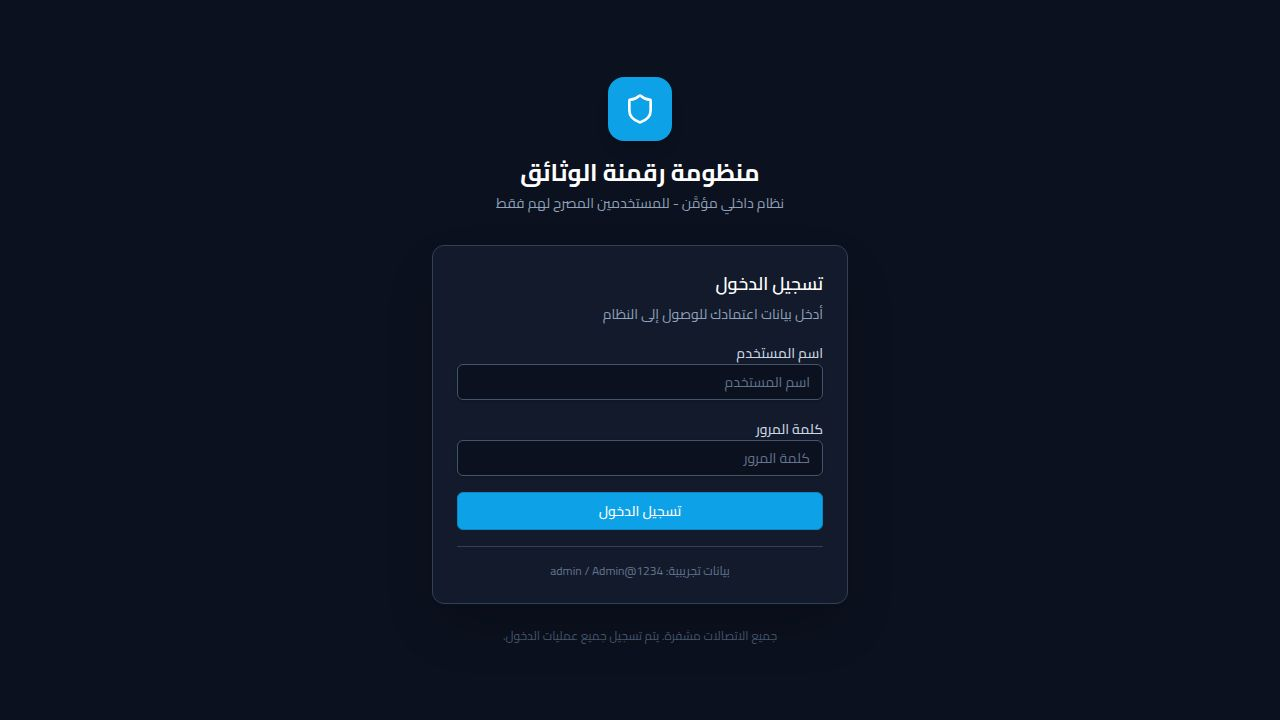
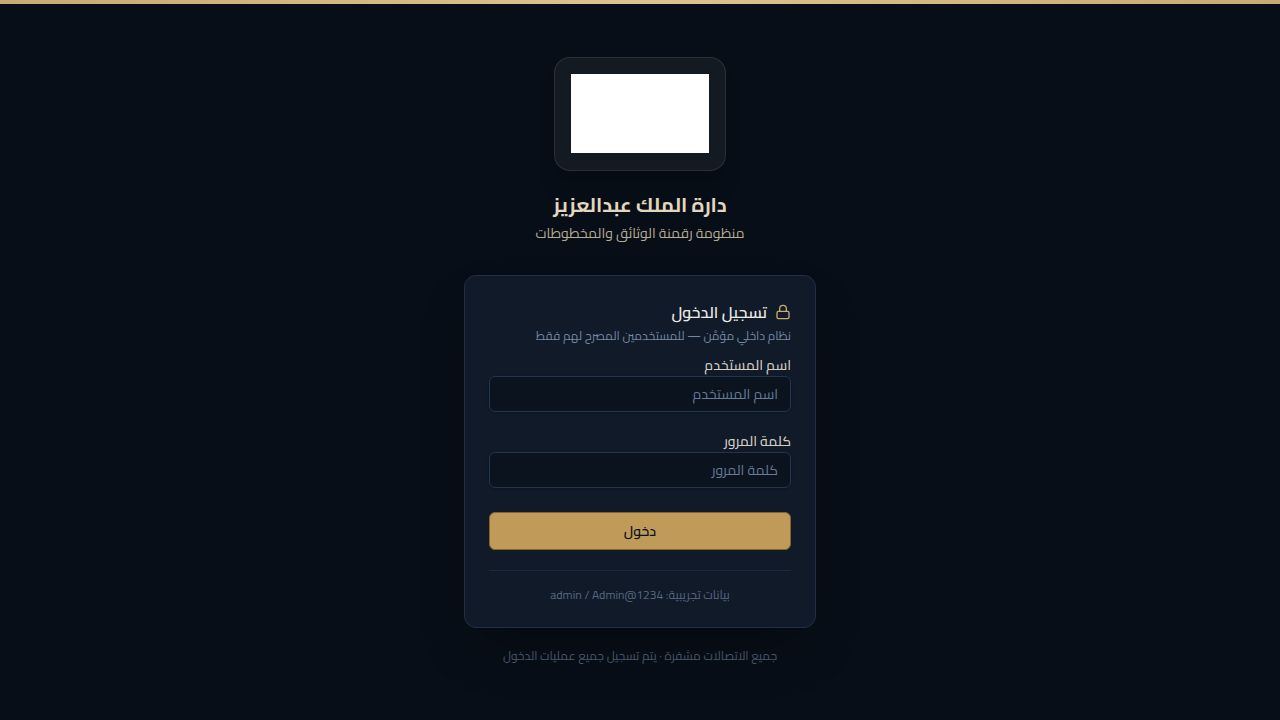
Update the application's visual theme to incorporate official branding
Refactor CSS variables and components to implement the Darah branding, including logo integration and color scheme adjustments in layout and login pages.

Replit-Commit-Author: Agent
Replit-Commit-Session-Id: 23f6d0bf-7aaa-4dc3-808f-a629d038bb14
Replit-Commit-Checkpoint-Type: full_checkpoint
Replit-Commit-Event-Id: 20e2a9bf-671e-48ea-ac76-dc4639d720ec
Replit-Commit-Screenshot-Url: https://storage.googleapis.com/screenshot-production-us-central1/404a4a0f-0123-430c-a00e-5af818b9d94b/23f6d0bf-7aaa-4dc3-808f-a629d038bb14/4SL5FPN
Replit-Helium-Checkpoint-Created: true

diff --git a/artifacts/ocr-dashboard/src/pages/login.tsx b/artifacts/ocr-dashboard/src/pages/login.tsx
@@ -3,8 +3,8 @@ import { useAuth } from "@/lib/auth-context";
 import { Button } from "@/components/ui/button";
 import { Input } from "@/components/ui/input";
 import { Label } from "@/components/ui/label";
-import { Card, CardContent, CardHeader, CardTitle, CardDescription } from "@/components/ui/card";
-import { AlertCircle, Shield } from "lucide-react";
+import { Card, CardContent, CardHeader } from "@/components/ui/card";
+import { AlertCircle, Lock } from "lucide-react";
 
 export default function LoginPage() {
   const { login } = useAuth();
@@ -28,47 +28,90 @@ export default function LoginPage() {
   };
 
   return (
-    <div className="min-h-screen flex items-center justify-center bg-[hsl(222,47%,8%)]" dir="rtl">
-      <div className="w-full max-w-md px-4">
-        {/* Logo / Brand */}
+    <div
+      className="min-h-screen flex items-center justify-center"
+      style={{ background: "hsl(216,50%,6%)" }}
+      dir="rtl"
+    >
+      {/* Subtle gold top border */}
+      <div className="fixed top-0 inset-x-0 h-1" style={{ background: "linear-gradient(90deg, hsl(38,45%,62%), hsl(38,55%,72%), hsl(38,45%,62%))" }} />
+
+      <div className="w-full max-w-sm px-4">
+
+        {/* Darah Logo + Title */}
         <div className="text-center mb-8">
-          <div className="inline-flex items-center justify-center w-16 h-16 rounded-2xl bg-[hsl(199,89%,48%)] mb-4 shadow-lg">
-            <Shield className="w-8 h-8 text-white" />
+          <div className="inline-flex items-center justify-center rounded-2xl bg-white p-4 mb-5 shadow-2xl" style={{ boxShadow: "0 0 0 1px hsl(38,30%,50%,0.4), 0 20px 40px rgba(0,0,0,0.5)" }}>
+            <img
+              src="/darah-logo.png"
+              alt="دارة الملك عبدالعزيز"
+              className="h-20 w-auto object-contain"
+            />
           </div>
-          <h1 className="text-2xl font-bold text-white tracking-tight">منظومة رقمنة الوثائق</h1>
-          <p className="text-sm text-slate-400 mt-1">نظام داخلي مؤمَّن - للمستخدمين المصرح لهم فقط</p>
+          <h1 className="text-xl font-bold tracking-tight" style={{ color: "hsl(38,40%,82%)" }}>
+            دارة الملك عبدالعزيز
+          </h1>
+          <p className="text-sm mt-1" style={{ color: "hsl(38,20%,65%)" }}>
+            منظومة رقمنة الوثائق والمخطوطات
+          </p>
         </div>
 
-        <Card className="border-slate-700 bg-[hsl(222,40%,12%)] shadow-2xl">
-          <CardHeader className="pb-4">
-            <CardTitle className="text-white text-lg">تسجيل الدخول</CardTitle>
-            <CardDescription className="text-slate-400">أدخل بيانات اعتمادك للوصول إلى النظام</CardDescription>
+        {/* Login Card */}
+        <Card
+          className="shadow-2xl border-0"
+          style={{ background: "hsl(216,42%,11%)", border: "1px solid hsl(216,38%,20%)" }}
+        >
+          <CardHeader className="pb-2 pt-6 px-6">
+            <div className="flex items-center gap-2 mb-1">
+              <Lock className="w-4 h-4" style={{ color: "hsl(38,45%,62%)" }} />
+              <span className="font-semibold" style={{ color: "hsl(38,15%,92%)" }}>
+                تسجيل الدخول
+              </span>
+            </div>
+            <p className="text-xs" style={{ color: "hsl(216,20%,55%)" }}>
+              نظام داخلي مؤمَّن — للمستخدمين المصرح لهم فقط
+            </p>
           </CardHeader>
-          <CardContent>
+
+          <CardContent className="px-6 pb-6">
             <form onSubmit={handleSubmit} className="space-y-4">
-              <div className="space-y-2">
-                <Label htmlFor="username" className="text-slate-300">اسم المستخدم</Label>
+              <div className="space-y-1.5">
+                <Label htmlFor="username" style={{ color: "hsl(38,15%,80%)" }}>
+                  اسم المستخدم
+                </Label>
                 <Input
                   id="username"
                   data-testid="input-username"
                   type="text"
                   value={username}
                   onChange={(e) => setUsername(e.target.value)}
-                  className="bg-[hsl(222,47%,8%)] border-slate-600 text-white placeholder:text-slate-500 text-right"
+                  className="text-right focus-visible:ring-1"
+                  style={{
+                    background: "hsl(216,45%,8%)",
+                    borderColor: "hsl(216,38%,22%)",
+                    color: "hsl(38,15%,92%)",
+                  }}
                   placeholder="اسم المستخدم"
                   required
                   dir="rtl"
                 />
               </div>
-              <div className="space-y-2">
-                <Label htmlFor="password" className="text-slate-300">كلمة المرور</Label>
+
+              <div className="space-y-1.5">
+                <Label htmlFor="password" style={{ color: "hsl(38,15%,80%)" }}>
+                  كلمة المرور
+                </Label>
                 <Input
                   id="password"
                   data-testid="input-password"
                   type="password"
                   value={password}
                   onChange={(e) => setPassword(e.target.value)}
-                  className="bg-[hsl(222,47%,8%)] border-slate-600 text-white placeholder:text-slate-500 text-right"
+                  className="text-right focus-visible:ring-1"
+                  style={{
+                    background: "hsl(216,45%,8%)",
+                    borderColor: "hsl(216,38%,22%)",
+                    color: "hsl(38,15%,92%)",
+                  }}
                   placeholder="كلمة المرور"
                   required
                   dir="rtl"
@@ -76,7 +119,8 @@ export default function LoginPage() {
               </div>
 
               {error && (
-                <div className="flex items-center gap-2 text-red-400 text-sm bg-red-950/30 border border-red-800/50 rounded-md px-3 py-2">
+                <div className="flex items-center gap-2 text-sm rounded-md px-3 py-2.5"
+                  style={{ background: "hsl(0,62%,20%)", border: "1px solid hsl(0,62%,35%)", color: "hsl(0,80%,80%)" }}>
                   <AlertCircle className="w-4 h-4 shrink-0" />
                   <span>{error}</span>
                 </div>
@@ -85,21 +129,27 @@ export default function LoginPage() {
               <Button
                 type="submit"
                 data-testid="button-login"
-                className="w-full bg-[hsl(199,89%,48%)] hover:bg-[hsl(199,89%,42%)] text-white font-medium"
+                className="w-full font-semibold mt-2 transition-all"
+                style={{
+                  background: "hsl(38,45%,55%)",
+                  color: "hsl(216,50%,8%)",
+                }}
                 disabled={loading}
               >
-                {loading ? "جاري التحقق..." : "تسجيل الدخول"}
+                {loading ? "جاري التحقق..." : "دخول"}
               </Button>
             </form>
 
-            <div className="mt-4 pt-4 border-t border-slate-700">
-              <p className="text-xs text-slate-500 text-center">بيانات تجريبية: admin / Admin@1234</p>
+            <div className="mt-5 pt-4" style={{ borderTop: "1px solid hsl(216,38%,18%)" }}>
+              <p className="text-xs text-center" style={{ color: "hsl(216,20%,42%)" }}>
+                بيانات تجريبية: admin / Admin@1234
+              </p>
             </div>
           </CardContent>
         </Card>
 
-        <p className="text-center text-xs text-slate-600 mt-6">
-          جميع الاتصالات مشفرة. يتم تسجيل جميع عمليات الدخول.
+        <p className="text-center text-xs mt-5" style={{ color: "hsl(216,20%,35%)" }}>
+          جميع الاتصالات مشفرة · يتم تسجيل جميع عمليات الدخول
         </p>
       </div>
     </div>

diff --git a/artifacts/ocr-dashboard/src/index.css b/artifacts/ocr-dashboard/src/index.css
@@ -67,7 +67,8 @@
   --radius-xl: calc(var(--radius) + 4px);
 }
 
-/* LIGHT MODE */
+/* LIGHT MODE — دارة الملك عبدالعزيز Brand Colors */
+/* Gold: #BFA882 (hsl 38 32 63) | Navy: #1B2B42 (hsl 216 42 18) */
 :root {
   --button-outline: rgba(0,0,0, .10);
   --badge-outline: rgba(0,0,0, .05);
@@ -75,38 +76,38 @@
   --elevate-1: rgba(0,0,0, .03);
   --elevate-2: rgba(0,0,0, .08);
 
-  --background: 220 20% 97%;
-  --foreground: 222 47% 11%;
-  --border: 215 20% 85%;
+  --background: 216 20% 97%;
+  --foreground: 216 42% 12%;
+  --border: 216 20% 85%;
   --card: 0 0% 100%;
-  --card-foreground: 222 47% 11%;
-  --card-border: 215 20% 88%;
-  --sidebar: 222 47% 11%;
-  --sidebar-foreground: 210 40% 90%;
-  --sidebar-border: 222 40% 20%;
-  --sidebar-primary: 199 89% 48%;
-  --sidebar-primary-foreground: 0 0% 100%;
-  --sidebar-accent: 222 40% 18%;
-  --sidebar-accent-foreground: 210 40% 90%;
-  --sidebar-ring: 199 89% 48%;
+  --card-foreground: 216 42% 12%;
+  --card-border: 216 20% 88%;
+  --sidebar: 216 42% 13%;
+  --sidebar-foreground: 38 20% 90%;
+  --sidebar-border: 216 40% 20%;
+  --sidebar-primary: 38 45% 55%;
+  --sidebar-primary-foreground: 216 42% 10%;
+  --sidebar-accent: 216 40% 18%;
+  --sidebar-accent-foreground: 38 20% 90%;
+  --sidebar-ring: 38 45% 55%;
   --popover: 0 0% 100%;
-  --popover-foreground: 222 47% 11%;
-  --popover-border: 215 20% 85%;
-  --primary: 199 89% 48%;
+  --popover-foreground: 216 42% 12%;
+  --popover-border: 216 20% 85%;
+  --primary: 38 50% 43%;
   --primary-foreground: 0 0% 100%;
-  --secondary: 215 20% 92%;
-  --secondary-foreground: 222 47% 20%;
-  --muted: 215 20% 94%;
-  --muted-foreground: 215 20% 50%;
-  --accent: 199 89% 48%;
+  --secondary: 216 20% 92%;
+  --secondary-foreground: 216 42% 20%;
+  --muted: 216 20% 94%;
+  --muted-foreground: 216 20% 50%;
+  --accent: 38 50% 43%;
   --accent-foreground: 0 0% 100%;
   --destructive: 0 84% 60%;
   --destructive-foreground: 0 0% 100%;
-  --input: 215 20% 80%;
-  --ring: 199 89% 48%;
-  --chart-1: 199 89% 48%;
+  --input: 216 20% 80%;
+  --ring: 38 50% 43%;
+  --chart-1: 38 50% 43%;
   --chart-2: 142 71% 45%;
-  --chart-3: 38 92% 50%;
+  --chart-3: 216 42% 35%;
   --chart-4: 0 84% 60%;
   --chart-5: 271 81% 56%;
 
@@ -148,38 +149,39 @@
   --elevate-1: rgba(255,255,255, .04);
   --elevate-2: rgba(255,255,255, .09);
 
-  --background: 222 47% 8%;
-  --foreground: 210 40% 92%;
-  --border: 222 40% 18%;
-  --card: 222 40% 12%;
-  --card-foreground: 210 40% 92%;
-  --card-border: 222 40% 20%;
-  --sidebar: 222 47% 6%;
-  --sidebar-foreground: 210 40% 88%;
-  --sidebar-border: 222 40% 14%;
-  --sidebar-primary: 199 89% 48%;
-  --sidebar-primary-foreground: 0 0% 100%;
-  --sidebar-accent: 222 40% 14%;
-  --sidebar-accent-foreground: 210 40% 88%;
-  --sidebar-ring: 199 89% 48%;
-  --popover: 222 40% 10%;
-  --popover-foreground: 210 40% 92%;
-  --popover-border: 222 40% 20%;
-  --primary: 199 89% 48%;
-  --primary-foreground: 0 0% 100%;
-  --secondary: 222 40% 16%;
-  --secondary-foreground: 210 40% 85%;
-  --muted: 222 40% 14%;
-  --muted-foreground: 215 20% 55%;
-  --accent: 199 89% 48%;
-  --accent-foreground: 0 0% 100%;
+  /* Dark mode — كحلي دارة الملك عبدالعزيز */
+  --background: 216 45% 8%;
+  --foreground: 38 15% 92%;
+  --border: 216 38% 18%;
+  --card: 216 42% 11%;
+  --card-foreground: 38 15% 92%;
+  --card-border: 216 38% 20%;
+  --sidebar: 216 50% 6%;
+  --sidebar-foreground: 38 20% 88%;
+  --sidebar-border: 216 40% 13%;
+  --sidebar-primary: 38 45% 62%;
+  --sidebar-primary-foreground: 216 50% 8%;
+  --sidebar-accent: 216 40% 13%;
+  --sidebar-accent-foreground: 38 20% 88%;
+  --sidebar-ring: 38 45% 62%;
+  --popover: 216 42% 10%;
+  --popover-foreground: 38 15% 92%;
+  --popover-border: 216 38% 20%;
+  --primary: 38 45% 62%;
+  --primary-foreground: 216 50% 8%;
+  --secondary: 216 38% 16%;
+  --secondary-foreground: 38 15% 85%;
+  --muted: 216 38% 14%;
+  --muted-foreground: 216 20% 55%;
+  --accent: 38 45% 62%;
+  --accent-foreground: 216 50% 8%;
   --destructive: 0 62% 50%;
   --destructive-foreground: 0 0% 100%;
-  --input: 222 40% 22%;
-  --ring: 199 89% 48%;
-  --chart-1: 199 89% 48%;
+  --input: 216 38% 22%;
+  --ring: 38 45% 62%;
+  --chart-1: 38 45% 62%;
   --chart-2: 142 71% 45%;
-  --chart-3: 38 92% 50%;
+  --chart-3: 216 42% 45%;
   --chart-4: 0 84% 60%;
   --chart-5: 271 81% 56%;
 

diff --git a/artifacts/ocr-dashboard/src/components/layout.tsx b/artifacts/ocr-dashboard/src/components/layout.tsx
@@ -10,7 +10,6 @@ import {
   ScrollText,
   Settings,
   LogOut,
-  Shield,
   ChevronLeft,
   Bell,
   Search,
@@ -151,14 +150,30 @@ export default function AppLayout({ children }: { children: React.ReactNode }) {
         )}
       >
         {/* Logo */}
-        <div className="flex items-center gap-3 px-4 h-16 border-b border-sidebar-border">
-          <div className="w-8 h-8 rounded-lg bg-sidebar-primary flex items-center justify-center shrink-0">
-            <Shield className="w-4 h-4 text-white" />
-          </div>
-          {!collapsed && (
-            <div className="overflow-hidden">
-              <p className="text-sm font-bold text-sidebar-foreground truncate">منظومة الرقمنة</p>
-              <p className="text-xs text-sidebar-foreground/50 truncate">نظام داخلي</p>
+        <div className="flex items-center gap-3 px-4 border-b border-sidebar-border shrink-0" style={{ minHeight: "4.5rem" }}>
+          {collapsed ? (
+            <div className="flex items-center justify-center w-full py-3">
+              <div className="bg-white rounded-lg p-1.5 shrink-0">
+                <img
+                  src="/darah-logo.png"
+                  alt="دارة الملك عبدالعزيز"
+                  className="h-6 w-auto object-contain"
+                />
+              </div>
+            </div>
+          ) : (
+            <div className="flex items-center gap-3 py-3 w-full">
+              <div className="bg-white rounded-lg p-1.5 shrink-0">
+                <img
+                  src="/darah-logo.png"
+                  alt="دارة الملك عبدالعزيز"
+                  className="h-7 w-auto object-contain"
+                />
+              </div>
+              <div className="overflow-hidden">
+                <p className="text-xs font-bold text-sidebar-foreground truncate leading-tight">دارة الملك عبدالعزيز</p>
+                <p className="text-xs text-sidebar-foreground/50 truncate leading-tight mt-0.5">منظومة رقمنة الوثائق</p>
+              </div>
             </div>
           )}
         </div>
